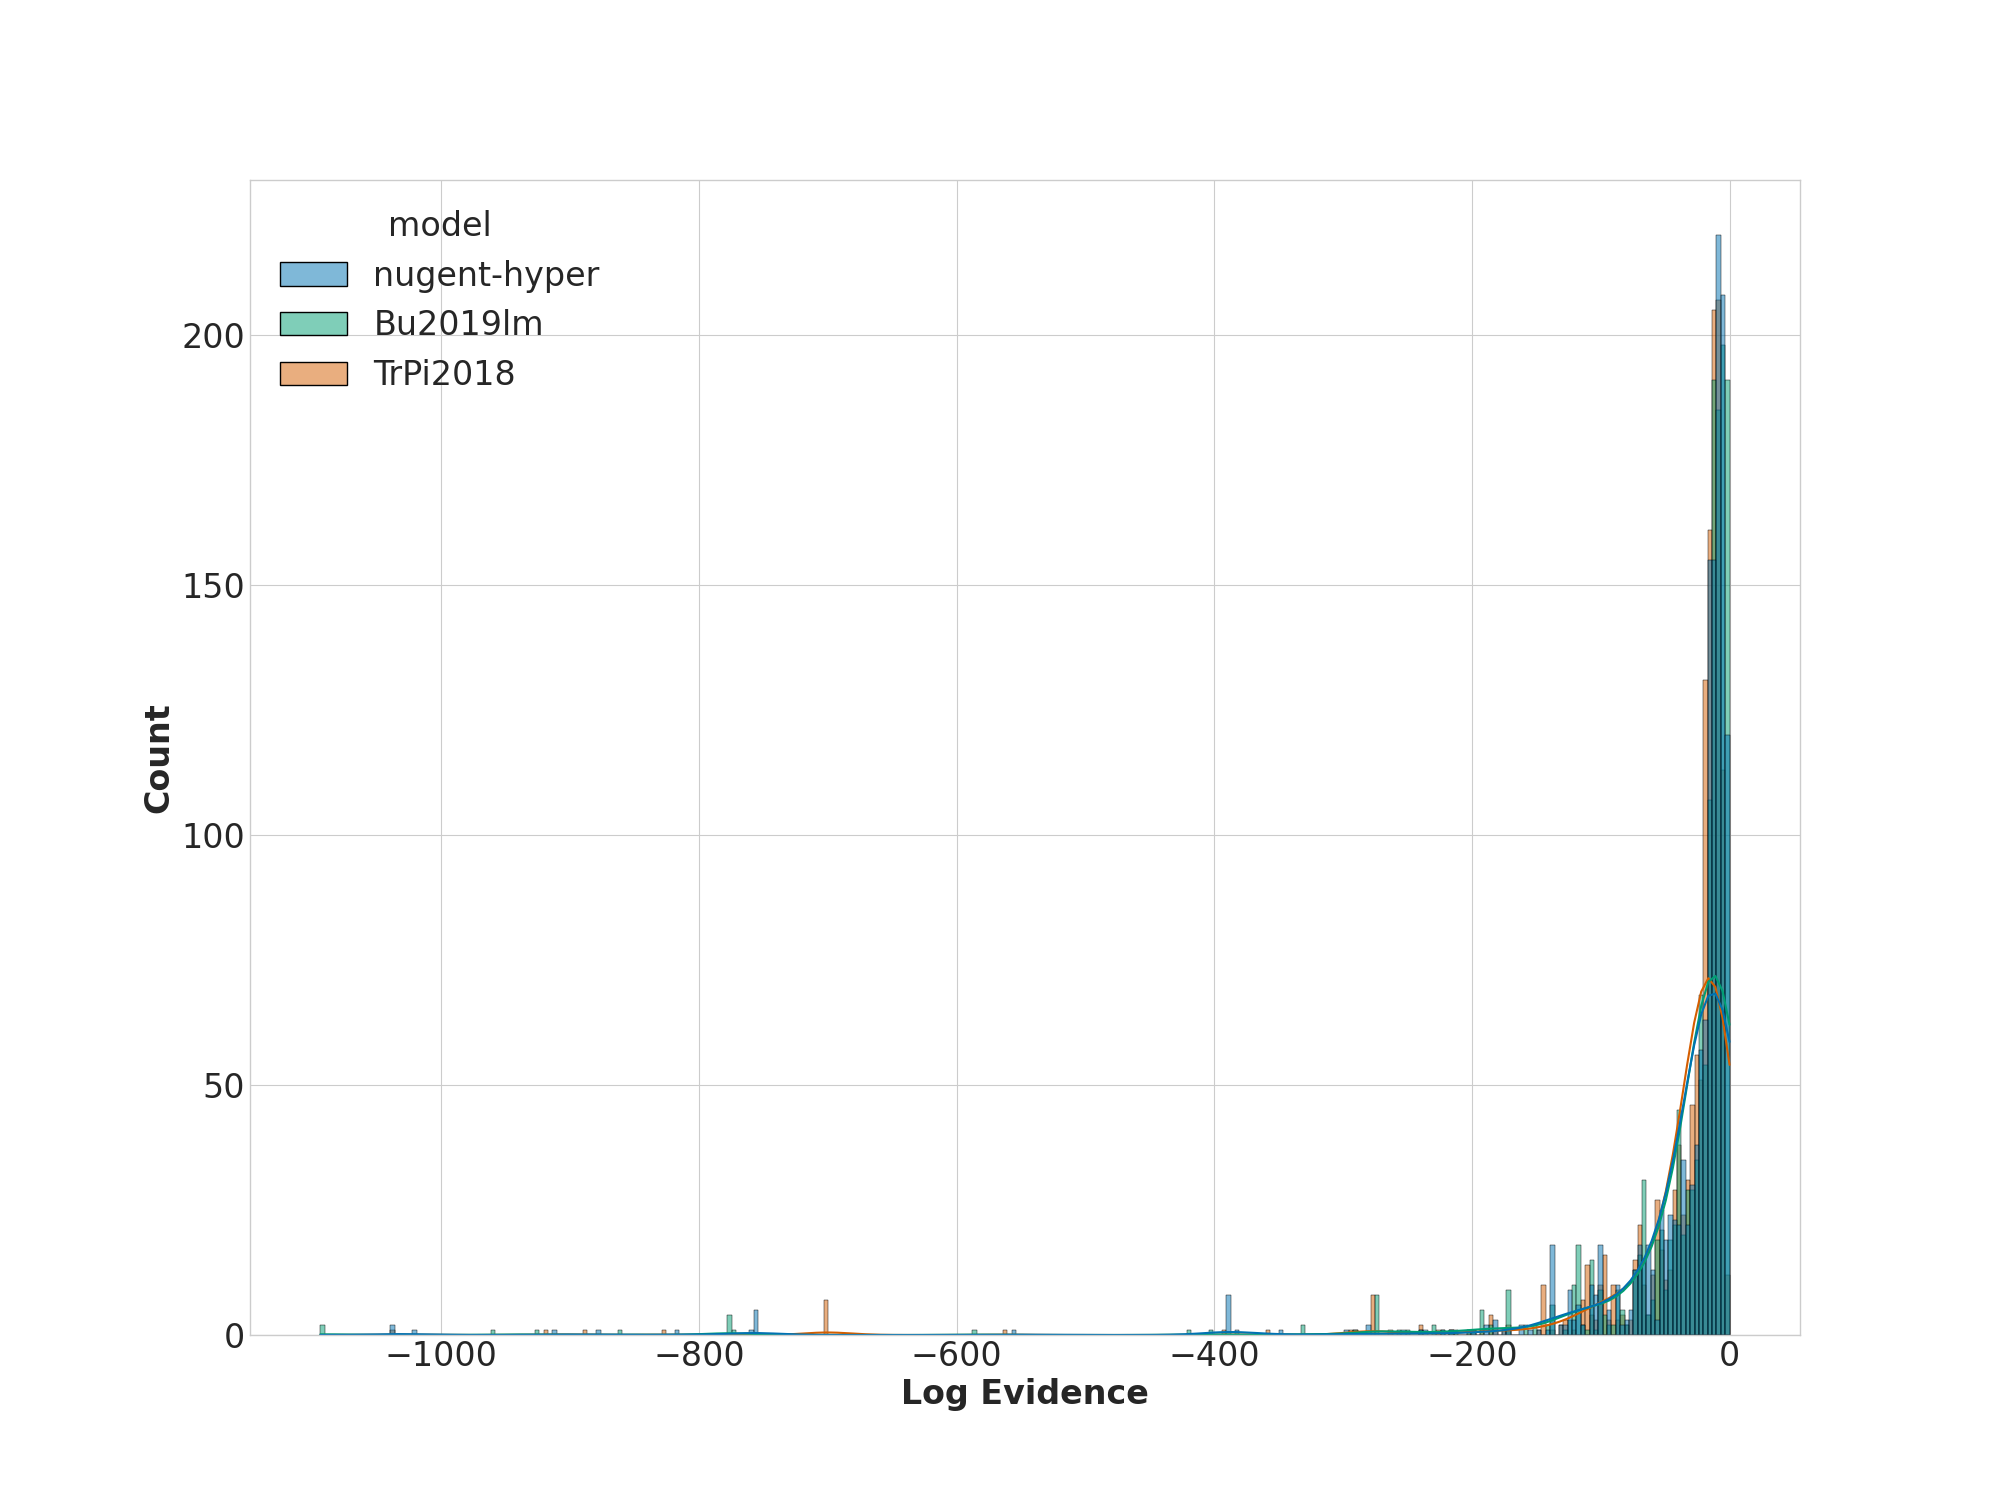
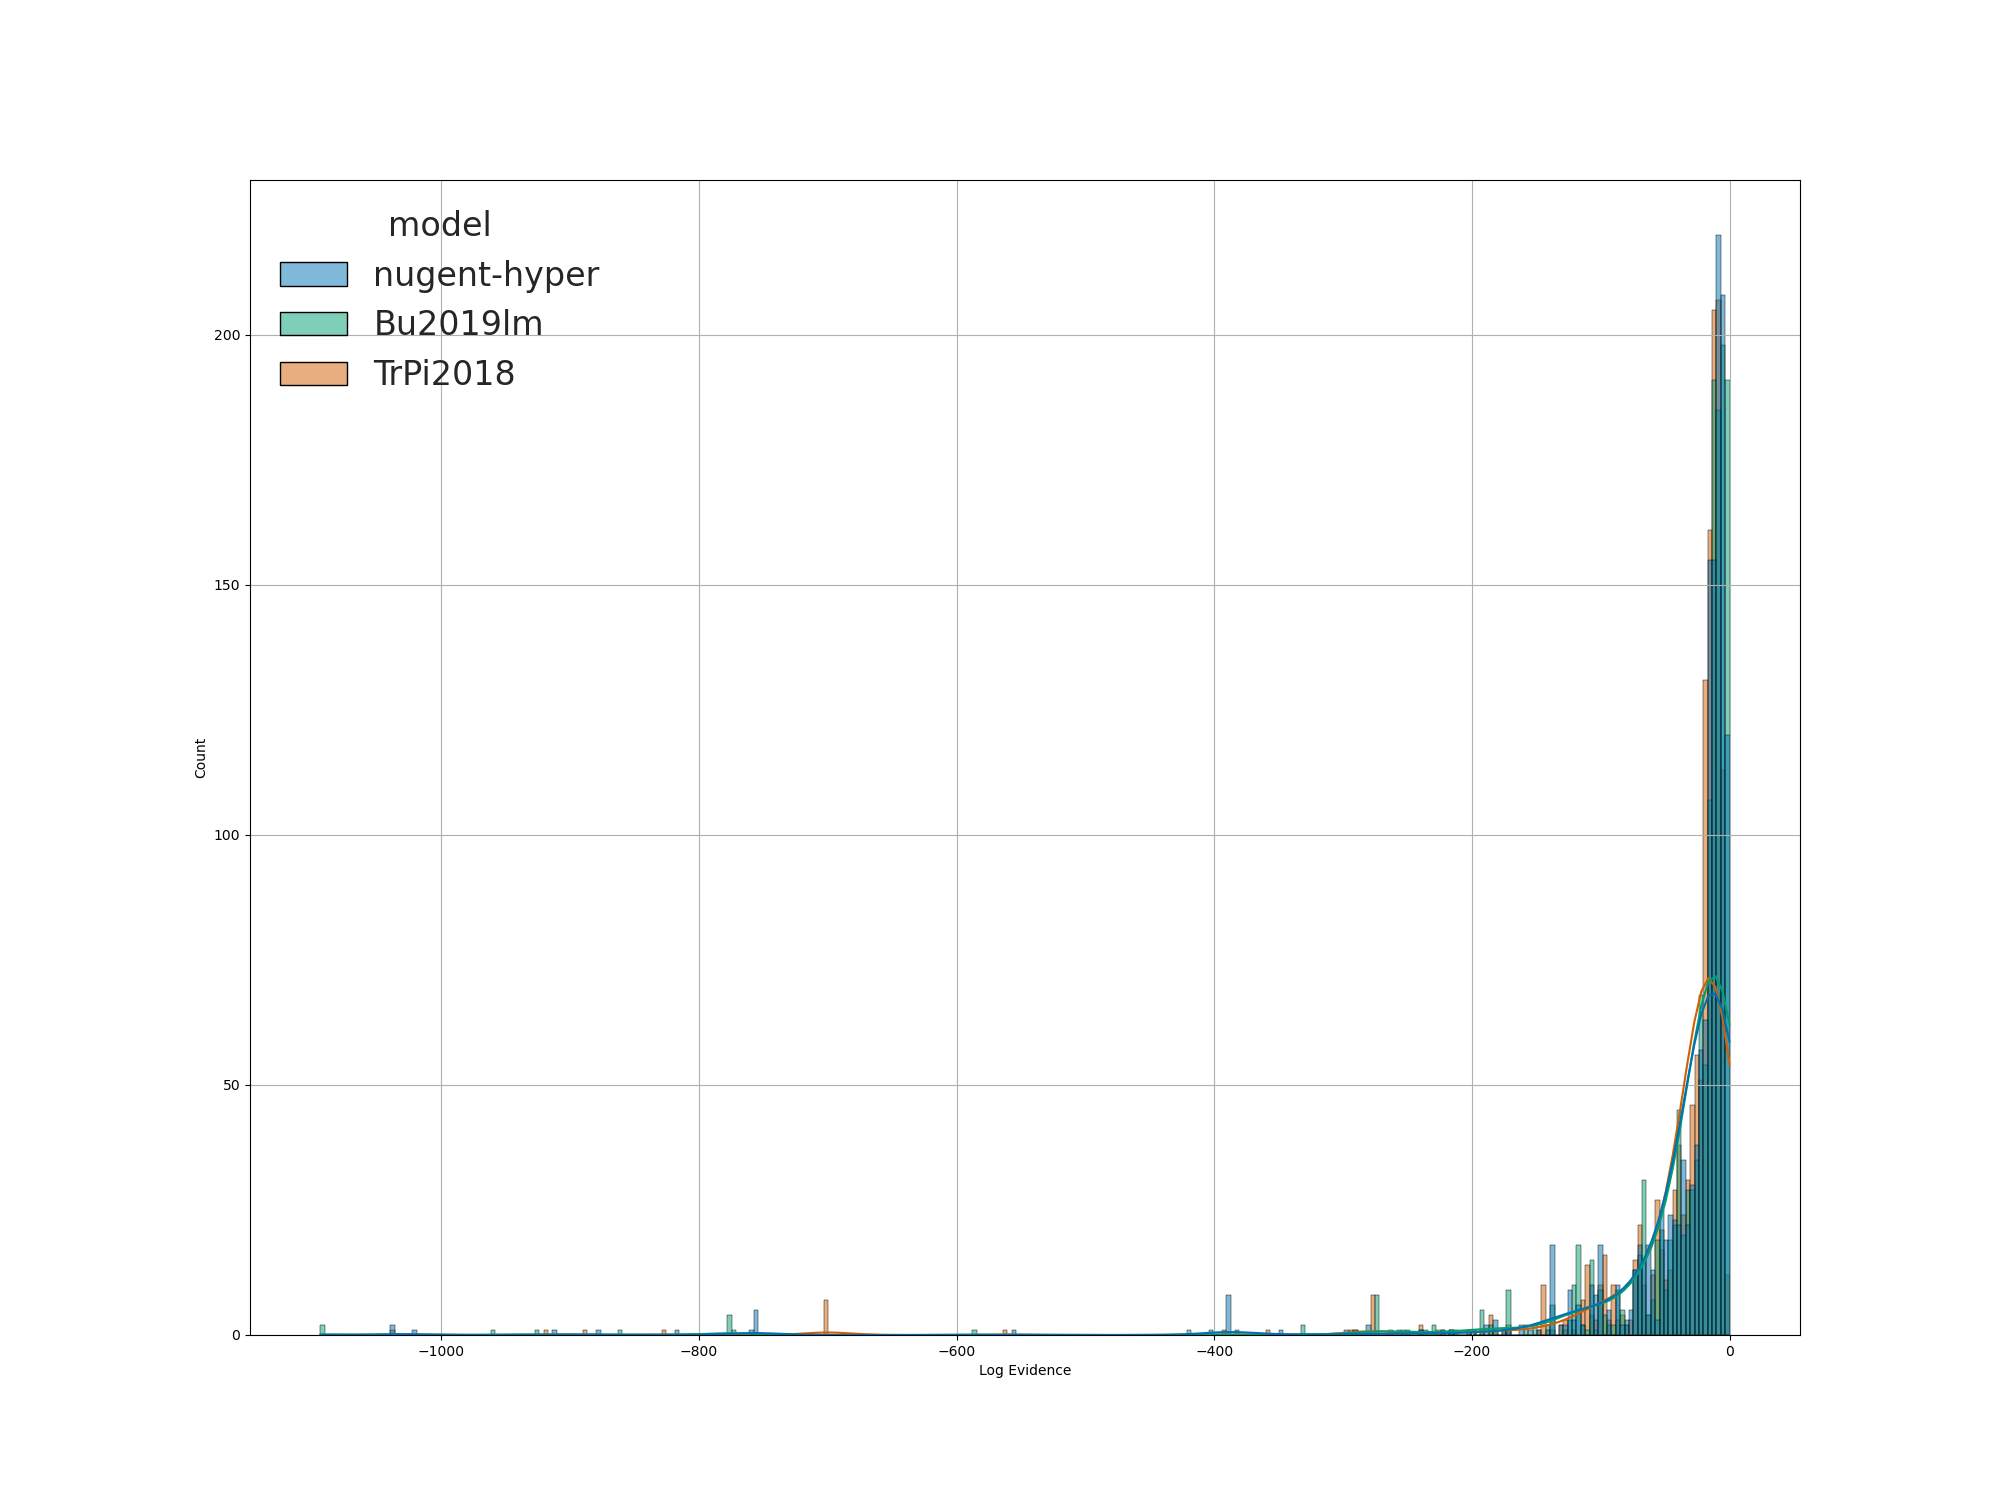
update likelihood plots

diff --git a/stats.py b/stats.py
@@ -1136,8 +1136,8 @@ def plotLikelihood(df, models=args.models, save=True, outdir=args.outdir, ext='.
     
     ## box plot of sampling times for different models
     fig, ax = plotstyle(figsize=(20,15), facecolor='white')
-    plot = sns.boxplot(data=df, x='log_bayes_factor',y='model', hue_order=models,
-                          hue='model', 
+    plot = sns.boxplot(data=df, x='log_bayes_factor',y='model', 
+                          hue='model', hue_order=models,
                           ax=ax)
     ax.set_xlabel("Log Bayes Factor")
     ax.set_ylabel('Model')
@@ -1242,8 +1242,8 @@ print('sampling time for succesful fits: {} seconds'.format(round(df[df['fitBool
 # plotUnfit(df=df)
 # print('completed unfit candidate plot (3)\n') if args.verbose else None
 
-plotSamplingTimes(df=df)
-print('completed sampling time plot (4)\n') if args.verbose else None
+# plotSamplingTimes(df=df)
+# print('completed sampling time plot (4)\n') if args.verbose else None
 
-# plotLikelihood(df=df)
-# print('completed evidence plot (5)\n') if args.verbose else None
+plotLikelihood(df=df)
+print('completed evidence plot (5)\n') if args.verbose else None
